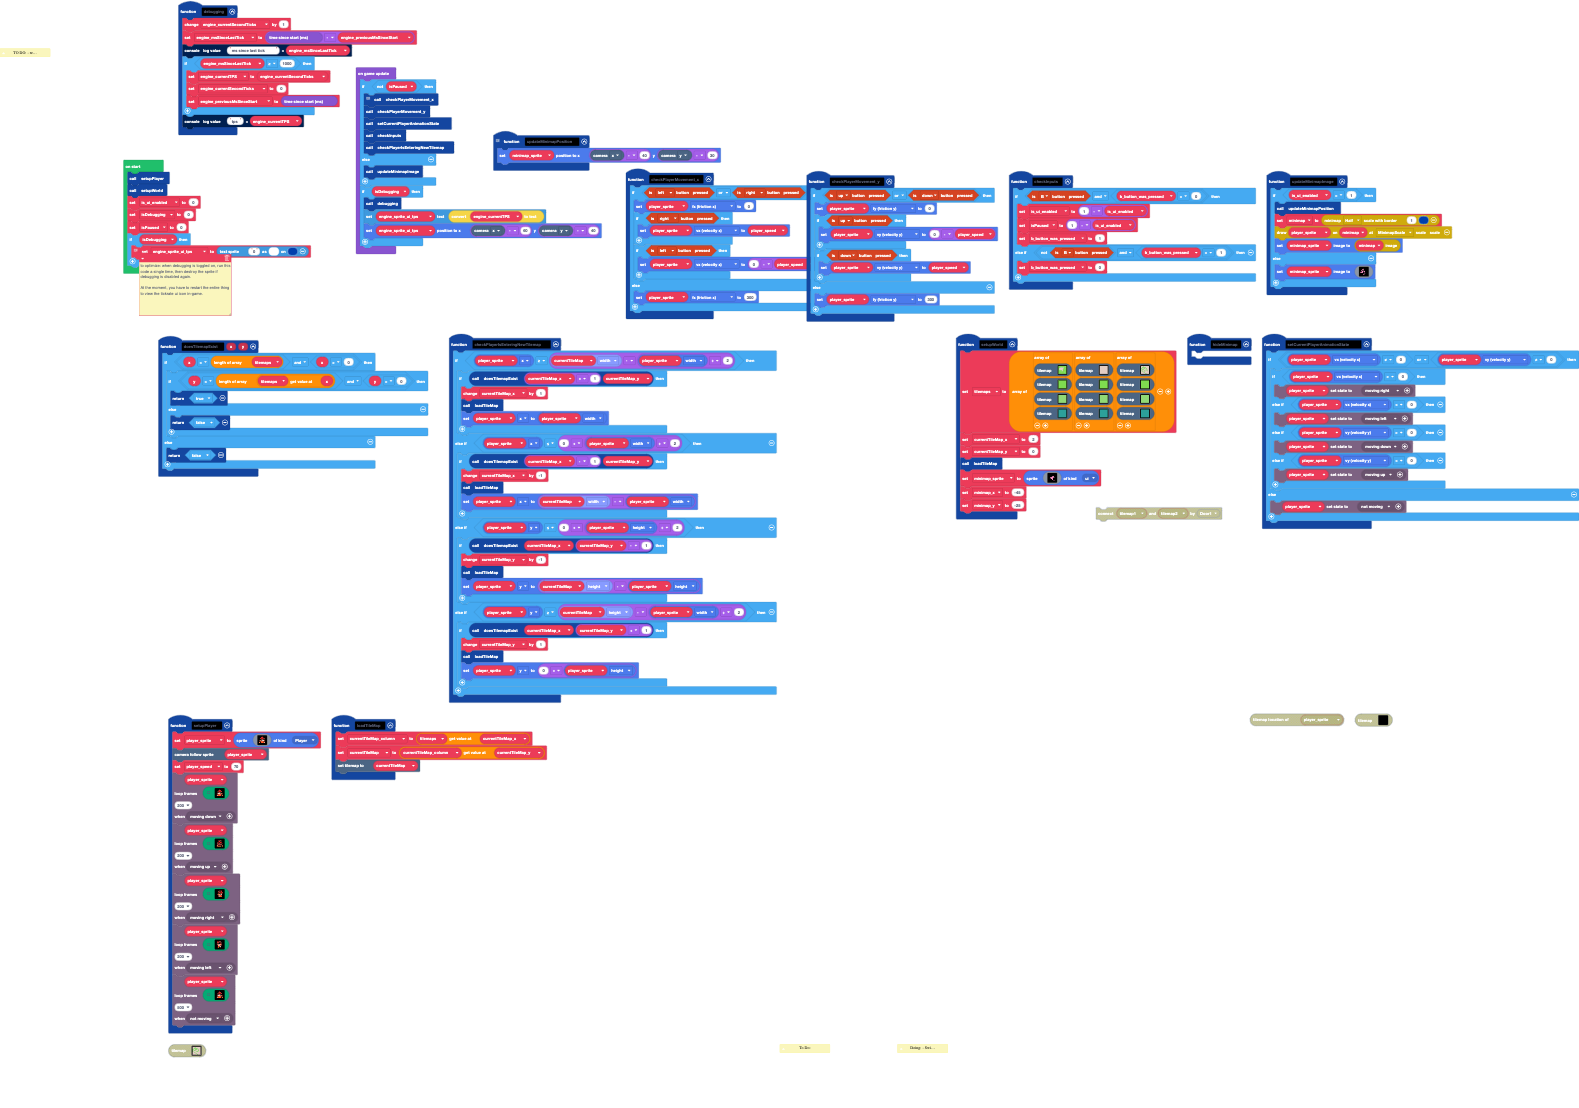
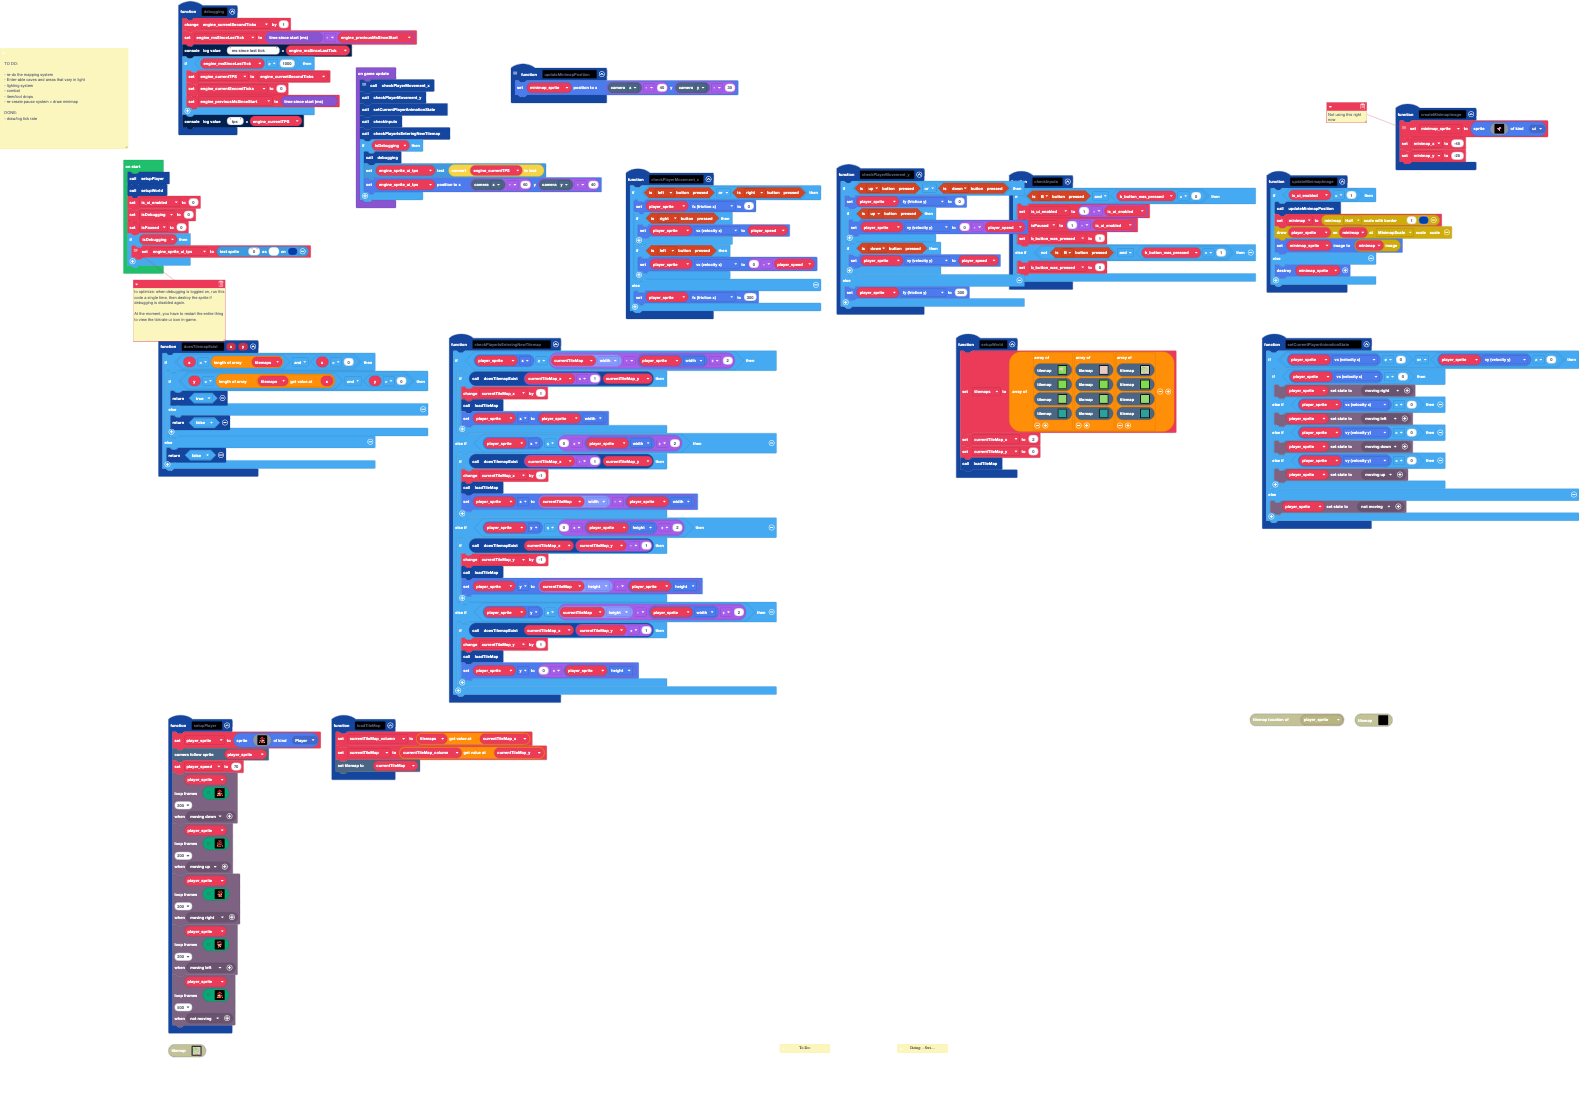
Clean up

diff --git a/main.ts b/main.ts
@@ -19,6 +19,10 @@ namespace SpriteKind {
  * 
  * - item/loot drops
  * 
+ * - re-create pause system + draw minimap
+ * 
+ * DONE:
+ * 
  * - draw/log tick rate
  */
 /**
@@ -58,9 +62,6 @@ function setCurrentPlayerAnimationState () {
     } else {
         characterAnimations.setCharacterState(player_sprite, characterAnimations.rule(Predicate.NotMoving))
     }
-}
-function hideMinimap () {
-	
 }
 function debugging () {
     engine_currentSecondTicks += 1
@@ -106,6 +107,9 @@ function setupWorld () {
     currentTileMap_x = 2
     currentTileMap_y = 0
     loadTileMap()
+}
+function createMinimapImage () {
+    // Not using this right now
     minimap_sprite = sprites.create(assets.image`arstarst`, SpriteKind.ui)
     minimap_x = -45
     minimap_y = -25
@@ -117,7 +121,7 @@ function updateMinimapImage () {
         minimap.includeSprite(minimap2, player_sprite, MinimapSpriteScale.MinimapScale)
         minimap_sprite.setImage(minimap.getImage(minimap2))
     } else {
-        minimap_sprite.setImage(assets.image`arst`)
+        minimap_sprite.destroy()
     }
 }
 function loadTileMap () {
@@ -240,21 +244,17 @@ if (isDebugging) {
     engine_sprite_ui_tps = textsprite.create("0", 8, 1)
 }
 game.onUpdate(function () {
-    if (!(isPaused)) {
-        // This currently:
-        // - Checks if the player is pressing a key
-        // - so it can "disable player friction"
-        // - and then re-enable it when the player stops pressing a key
-        // 
-        // But, if I want to add enemies or things that "bump" the player around, I'll have to figure out a different way to do this.
-        checkPlayerMovement_x()
-        checkPlayerMovement_y()
-        setCurrentPlayerAnimationState()
-        checkInputs()
-        checkPlayerIsEnteringNewTilemap()
-    } else {
-        updateMinimapImage()
-    }
+    // This currently:
+    // - Checks if the player is pressing a key
+    // - so it can "disable player friction"
+    // - and then re-enable it when the player stops pressing a key
+    // 
+    // But, if I want to add enemies or things that "bump" the player around, I'll have to figure out a different way to do this.
+    checkPlayerMovement_x()
+    checkPlayerMovement_y()
+    setCurrentPlayerAnimationState()
+    checkInputs()
+    checkPlayerIsEnteringNewTilemap()
     if (isDebugging) {
         debugging()
         engine_sprite_ui_tps.setText(convertToText(engine_currentTPS))
